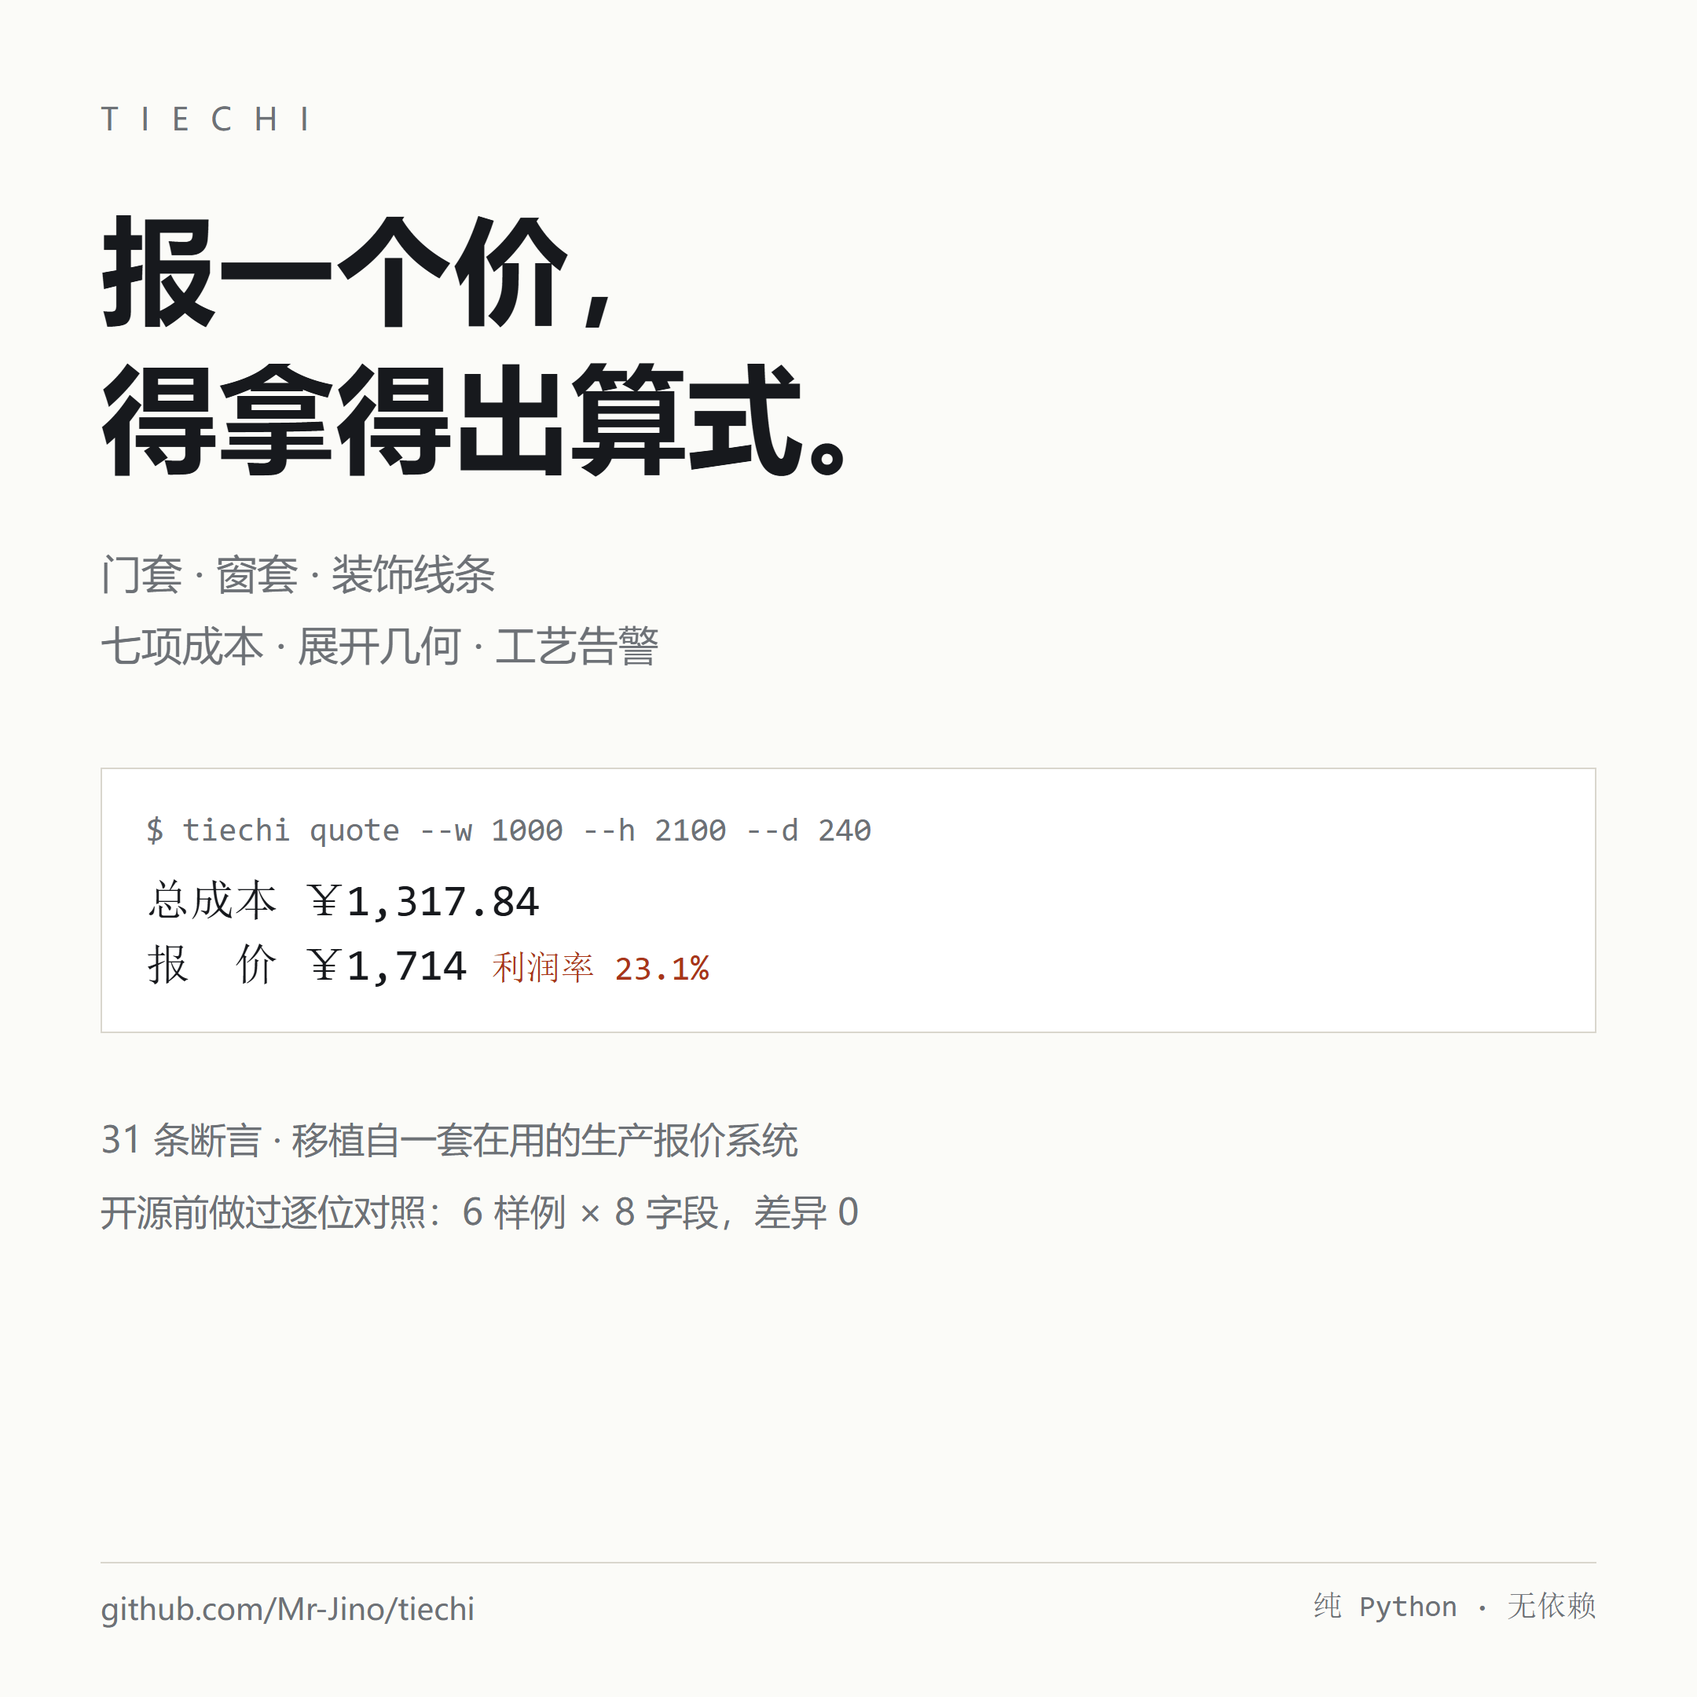
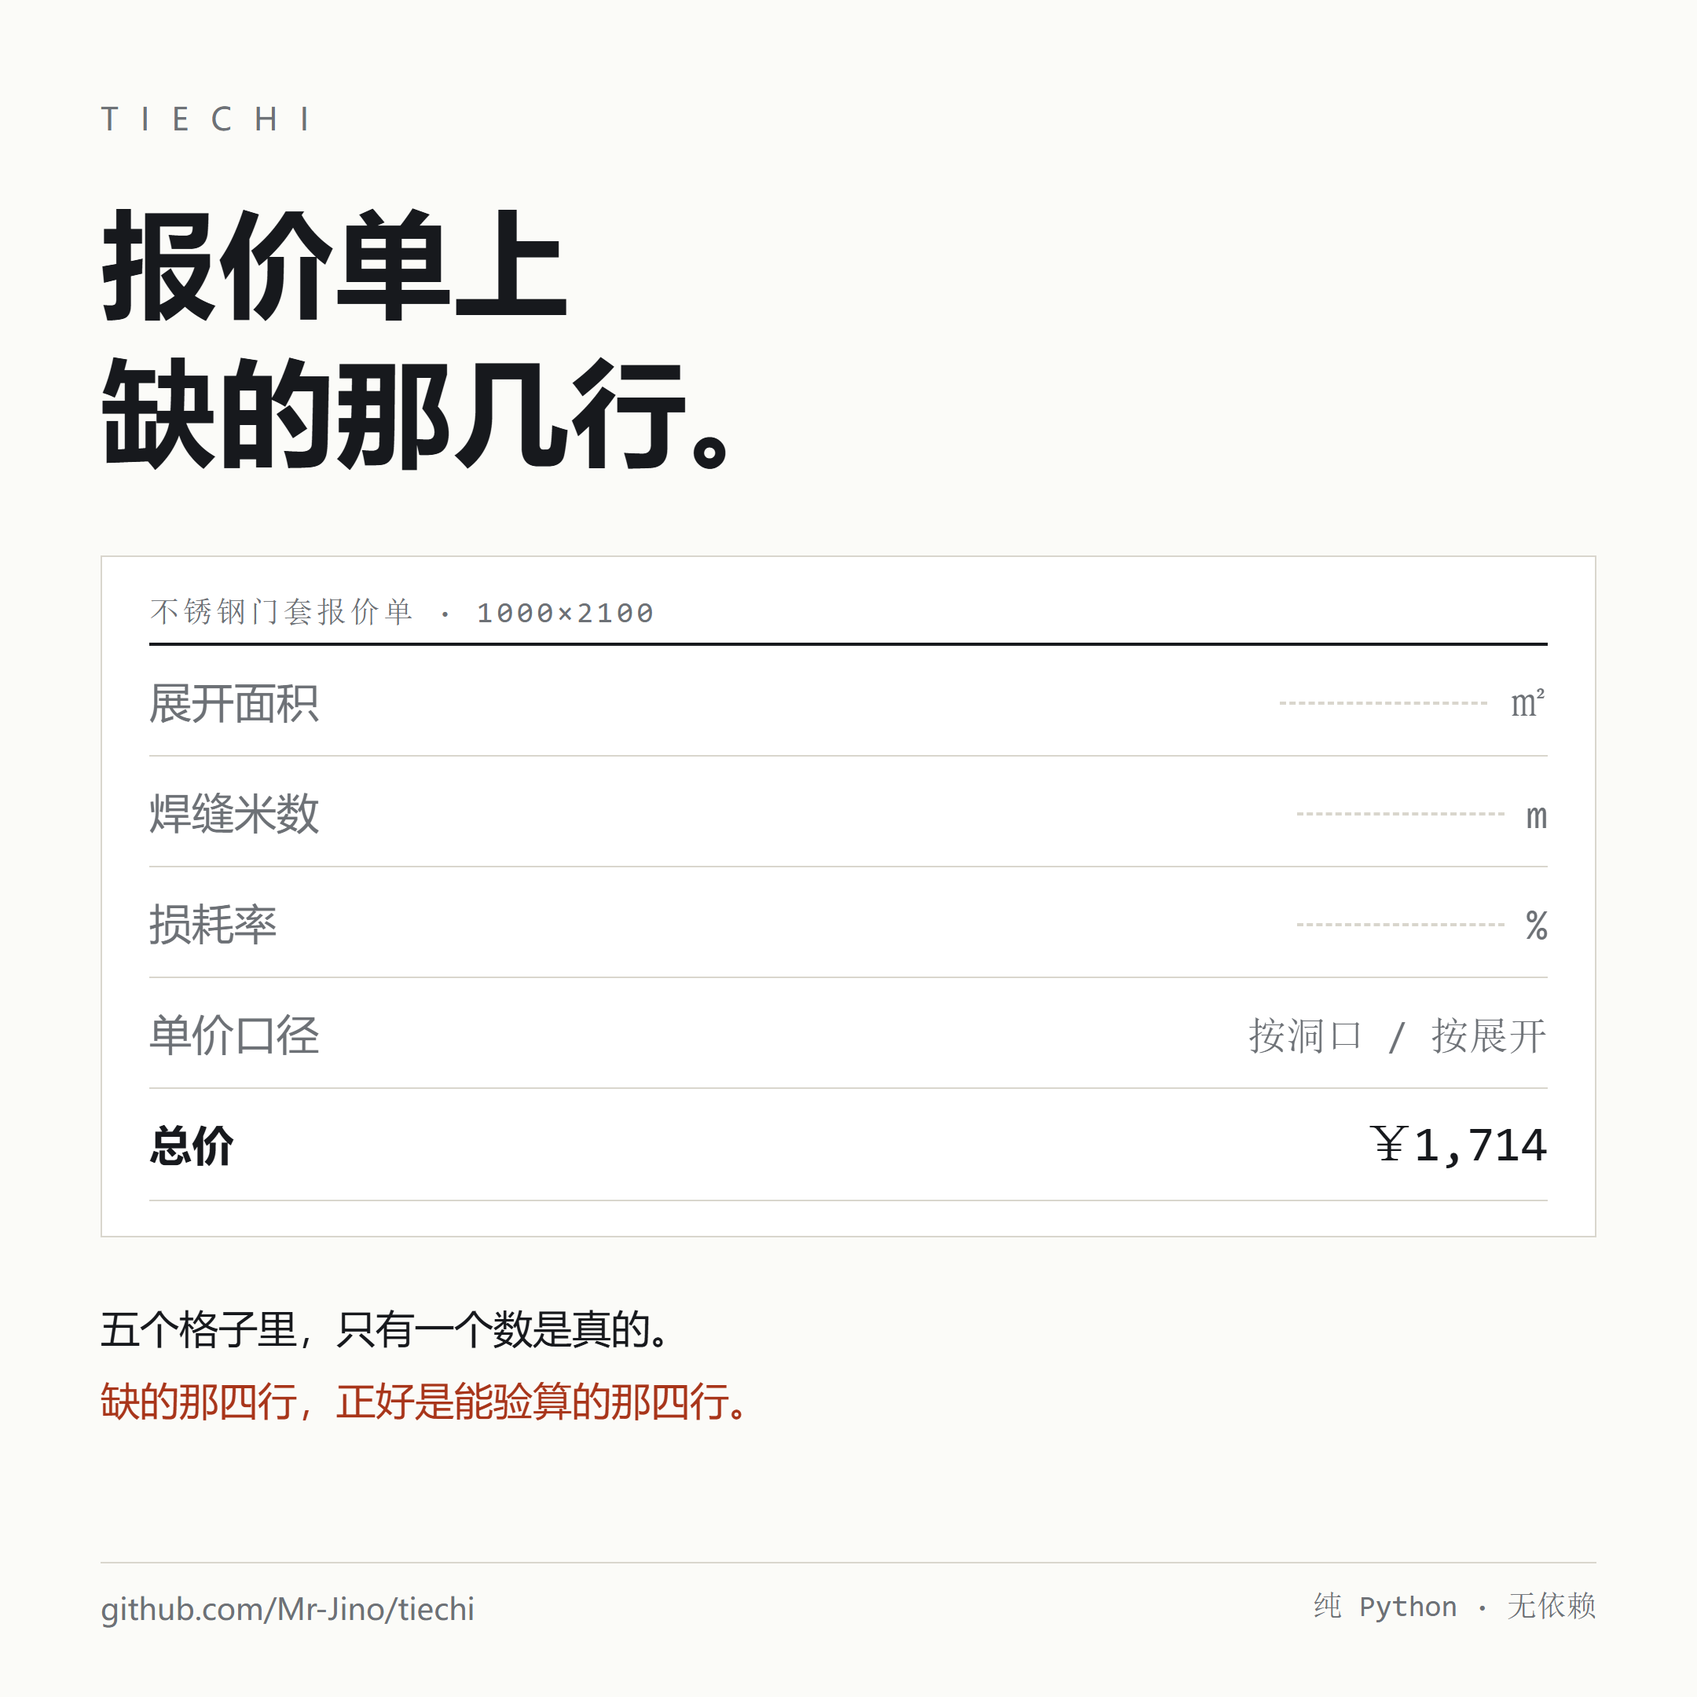
docs: rework moments set around the opacity narrative (4 cards, one storyline)

diff --git a/tools/moments.py b/tools/moments.py
@@ -3,6 +3,13 @@
 moments —— 生成朋友圈四宫格（1080×1080 @2x）
 ==========================================
 版式沿用仓库里的数据表风格：纸白底、细线、等宽数字。数字全部由引擎现算。
+
+叙事线（v3，对齐"模糊才是利润来源"的口径）：
+  1 报价单上缺的那几行      —— 提出问题：总价是确定的，其余全空着
+  2 缺的三个数字值多少      —— 洞口 2.10㎡ / 展开 3.47㎡，同价两种单价差 1.65 倍
+  3 同一句话，差 423 元     —— 工艺口径不明，差价藏在"单包"这句里
+  4 七项成本，逐项带算式    —— 把洞填上
+
     python tools/moments.py
 """
 import os
@@ -44,6 +51,8 @@ h2{font-size:44px;font-weight:600;line-height:1.35}
 .rule{height:1px;background:var(--line);margin:26px 0}
 .foot{position:absolute;left:64px;right:64px;bottom:44px;font-size:19px;color:var(--mute);
   border-top:1px solid var(--line);padding-top:16px;display:flex;justify-content:space-between}
+.blank{display:inline-block;border-bottom:2px dashed var(--line);width:132px;height:2px;
+  vertical-align:middle;margin-bottom:6px}
 """
 
 
@@ -55,128 +64,36 @@ def card(body, left, right="tiechi · MIT"):
 
 # ------------------------------------------------------------------ 1 封面
 def c1():
+    def line(name, val, fixed=False):
+        return f"""
+      <div style="display:flex;justify-content:space-between;align-items:baseline;
+                  padding:17px 0;border-bottom:1px solid var(--line);">
+        <div style="font-size:27px;{'font-weight:600' if fixed else 'color:var(--mute)'}">{name}</div>
+        <div class="mono" style="font-size:{31 if fixed else 25}px;
+             {'color:var(--ink)' if fixed else 'color:var(--mute)'}">{val}</div>
+      </div>"""
+
     body = f"""
   <div class="kicker">T I E C H I</div>
-  <h1 style="margin-top:34px;">报一个价，<br>得拿得出算式。</h1>
-  <div class="sub" style="margin-top:30px;">
-    门套 · 窗套 · 装饰线条<br>七项成本 · 展开几何 · 工艺告警
+  <h1 style="margin-top:30px;">报价单上<br>缺的那几行。</h1>
+  <div style="margin-top:46px;border:1px solid var(--line);background:#fff;padding:8px 30px 22px;">
+    <div class="mono" style="font-size:19px;color:var(--mute);padding:16px 0 8px;
+         border-bottom:2px solid var(--ink);letter-spacing:.12em;">不锈钢门套报价单 · 1000×2100</div>
+    {line("展开面积", '<span class="blank"></span> ㎡')}
+    {line("焊缝米数", '<span class="blank"></span> m')}
+    {line("损耗率", '<span class="blank"></span> %')}
+    {line("单价口径", "按洞口 / 按展开")}
+    {line("总价", f"￥{A['单套报价']:,.0f}", fixed=True)}
   </div>
-  <div style="margin-top:56px;border:1px solid var(--line);padding:26px 28px;background:#fff;">
-    <div class="mono" style="font-size:21px;color:var(--mute);">$ tiechi quote --w 1000 --h 2100 --d 240</div>
-    <div class="mono" style="font-size:28px;margin-top:16px;">总成本 ￥{A['总成本']:,.2f}</div>
-    <div class="mono" style="font-size:28px;margin-top:8px;">
-      报　价 ￥{A['建议报价合计']:,.0f}
-      <span style="color:var(--rust);font-size:22px;">利润率 {A['实际利润率']*100:.1f}%</span>
-    </div>
-  </div>
-  <div style="margin-top:44px;font-size:23px;line-height:2;color:var(--mute);">
-    31 条断言 · 移植自一套在用的生产报价系统<br>
-    开源前做过逐位对照：6 样例 × 8 字段，差异 0
+  <div style="margin-top:34px;font-size:25px;line-height:1.85;">
+    五个格子里，只有一个数是真的。<br>
+    <span style="color:var(--rust);">缺的那四行，正好是能验算的那四行。</span>
   </div>"""
     return card(body, "github.com/Mr-Jino/tiechi", "纯 Python · 无依赖")
 
 
-# ------------------------------------------------------------------ 2 成本
+# ------------------------------------------------------------ 2 缺的三个数字
 def c2():
-    items = sorted([(k, v) for k, v in A["成本明细"].items() if v > 0], key=lambda x: -x[1])
-    total = A["总成本"]
-    rows = "".join(f"""
-      <div style="display:grid;grid-template-columns:150px 1fr 138px;align-items:center;gap:16px;margin-bottom:22px;">
-        <div style="font-size:27px;">{k}</div>
-        <div style="position:relative;height:30px;background:var(--sand);">
-          <div style="position:absolute;inset:0 auto 0 0;width:{v/total*100:.2f}%;
-                      background:{'var(--rust)' if v/total > 0.2 else 'var(--blue)'};"></div>
-        </div>
-        <div class="mono" style="font-size:25px;text-align:right;">{v:,.2f}</div>
-      </div>""" for k, v in items)
-    body = f"""
-  <h2>一件门套，钱花在哪</h2>
-  <div class="sub" style="margin-top:14px;font-size:23px;">
-    1000×2100 · 墙厚 240 · 304/1.0 · 拉丝 · 双包 · 拼焊
-  </div>
-  <div class="rule"></div>
-  {rows}
-  <div style="display:flex;justify-content:space-between;align-items:baseline;
-              border-top:2px solid var(--ink);margin-top:20px;padding-top:18px;">
-    <div style="font-size:30px;">总成本</div>
-    <div class="mono" style="font-size:52px;">￥{total:,.2f}</div>
-  </div>
-  <div style="display:flex;justify-content:space-between;align-items:baseline;margin-top:12px;">
-    <div style="font-size:22px;color:var(--mute);">× (1 + 加成 30%)，取整到元</div>
-    <div class="mono" style="font-size:34px;color:var(--rust);">报价 ￥{A['建议报价合计']:,.0f}</div>
-  </div>"""
-    return card(body, "材料含算料损耗 · 物流泡重取大")
-
-
-# ------------------------------------------------------------------ 3 工艺
-def c3():
-    def block(r, name, note, color, big):
-        g = r["几何"]
-        return f"""
-      <div style="flex:1;border:1px solid var(--line);padding:26px 26px 22px;background:#fff;">
-        <div style="display:flex;align-items:baseline;gap:12px;">
-          <div style="font-size:32px;font-weight:700;color:{color}">{name}</div>
-          <div style="font-size:20px;color:var(--mute)">{note}</div>
-        </div>
-        <div class="mono" style="font-size:{big}px;margin-top:14px;">￥{r['单套报价']:,.0f}</div>
-        <div style="margin-top:14px;font-size:21px;color:var(--mute);line-height:2;" class="mono">
-          展开 {g['单套展开面积㎡']:.3f} ㎡<br>
-          拼角 {r['工艺口径']['拼角处数']} 处 · 接料 {g['拼板接料处数']} 处<br>
-          焊缝 {r['工艺口径']['焊缝米数']:.3f} m
-        </div>
-      </div>"""
-
-    d_cost = ZB["总成本"] - PZ["总成本"]
-    body = f"""
-  <h2>同一洞口，改整包多付 {d_cost:,.0f} 元</h2>
-  <div class="sub" style="margin-top:12px;font-size:23px;">同为单包口径，变量只有工艺</div>
-  <div style="display:flex;gap:22px;margin-top:32px;">
-    {block(PZ, "拼焊", "分件下料 · 拼角焊", "var(--ink)", 44)}
-    {block(ZB, "整包", "一块板折成 П 形", "var(--blue)", 44)}
-  </div>
-  <div style="margin-top:30px;font-size:23px;line-height:1.95;">
-    买的是"没有拼角焊缝"。<br>
-    <span style="color:var(--mute);">代价：整包板长 2×2100+1000+2×240+30 = 5710mm，<br>
-    标准板最长 3000mm，必然接料 —— 所以整包不是"高端就选它"。</span>
-  </div>"""
-    return card(body, "值不值由客户定，但价格得报得出来")
-
-
-# ------------------------------------------------------------------ 4 加成
-def c4():
-    cost, price = A["总成本"], A["建议报价合计"]
-    p30 = cost / 0.7
-    def bar(label, p, expr, real, top):
-        return f"""
-      <div style="margin-top:{top}px;">
-        <div style="display:flex;justify-content:space-between;align-items:baseline;">
-          <div style="font-size:25px;">{label}</div>
-          <div class="mono" style="font-size:28px;">￥{p:,.2f}</div>
-        </div>
-        <div style="display:flex;height:34px;margin-top:12px;">
-          <div style="width:{cost/p*100:.1f}%;background:var(--ink);"></div>
-          <div style="width:{(p-cost)/p*100:.1f}%;background:var(--rust);opacity:.75;"></div>
-        </div>
-        <div class="mono" style="font-size:19px;color:var(--mute);margin-top:9px;">
-          {expr} · 实际利润率 {real:.1f}%
-        </div>
-      </div>"""
-    body = f"""
-  <h2>加成 30% 不是利润 30%</h2>
-  <div class="sub" style="margin-top:12px;font-size:23px;">行业里最常见的报亏原因</div>
-  <div class="mono" style="font-size:76px;margin-top:36px;">0.30 <span style="color:var(--mute);font-size:44px;">÷ 1.30</span>
-    <span style="color:var(--rust)">= 23.1%</span></div>
-  {bar("成本加成 30%", price, "成本 × 1.30", (price-cost)/price*100, 34)}
-  {bar("按利润 30% 反算", p30, "成本 ÷ (1−0.30)", (p30-cost)/p30*100, 26)}
-  <div style="margin-top:32px;font-size:23px;line-height:1.9;">
-    同样的活，两个口径差 <b class="mono" style="color:var(--rust)">￥{p30-price:,.0f}</b> / 套<br>
-    <span style="color:var(--mute);">按 100 万成本量级，差 ￥{(p30-price)/cost*1e6:,.0f}，账上却一直是"赚的"。</span>
-  </div>"""
-    return card(body, "github.com/Mr-Jino/tiechi", "价表请自己回填")
-
-
-# ------------------------------------------------------------ 4b 缺的三个数字
-def c4b():
     g = A["几何"]
     hole = BASE["opening_w"] * BASE["opening_h"] / 1e6      # 洞口面积 ㎡
     dev = g["单套展开面积㎡"]
@@ -184,21 +101,21 @@ def c4b():
 
     def row(no, ask, val, unit, hidden):
         return f"""
-      <div style="border-top:1px solid var(--line);padding:26px 0 22px;">
+      <div style="border-top:1px solid var(--line);padding:24px 0 20px;">
         <div style="display:flex;align-items:baseline;gap:18px;">
-          <div class="mono" style="font-size:22px;color:var(--mute);width:34px;">{no}</div>
-          <div style="font-size:33px;font-weight:600;">{ask}</div>
+          <div class="mono" style="font-size:21px;color:var(--mute);width:34px;">{no}</div>
+          <div style="font-size:32px;font-weight:600;">{ask}</div>
           <div style="flex:1;"></div>
-          <div class="mono" style="font-size:44px;">{val}<span style="font-size:22px;color:var(--mute);"> {unit}</span></div>
+          <div class="mono" style="font-size:42px;">{val}<span style="font-size:22px;color:var(--mute);"> {unit}</span></div>
         </div>
-        <div class="mono" style="font-size:20px;color:var(--mute);margin-top:10px;padding-left:52px;">
+        <div class="mono" style="font-size:19px;color:var(--mute);margin-top:9px;padding-left:52px;">
           {hidden}
         </div>
       </div>"""
 
     rows = (
         row("01", "展开面积", f"{dev:.3f}", "㎡",
-            f"报价只写“按洞口 {hole:.2f} ㎡”—— 摊平后的面积是洞口的 {dev/hole:.2f} 倍")
+            f"报价只写“按洞口 {hole:.2f} ㎡”—— 摊平后是洞口的 {dev/hole:.2f} 倍")
         + row("02", "焊缝米数", f"{A['工艺口径']['焊缝米数']:.2f}", "m",
               f"报价只写“{A['工艺口径']['拼角处数']} 处拼角”—— 处不是长度，估不出焊接费")
         + row("03", "损耗率", f"{g['损耗率']*100:.0f}", "%",
@@ -207,23 +124,91 @@ def c4b():
     )
 
     body = f"""
-  <h2>一张报价单，缺三个数字</h2>
-  <div class="sub" style="margin-top:12px;font-size:23px;">缺了它们，总价是对的也是对的，错的也是对的</div>
+  <h2>缺的这三个数，值多少钱</h2>
+  <div class="sub" style="margin-top:12px;font-size:23px;">同一个价格，两种分母，1.65 倍</div>
   {rows}
-  <div style="border-top:2px solid var(--ink);padding-top:22px;margin-top:6px;">
+  <div style="border-top:2px solid var(--ink);padding-top:22px;margin-top:4px;">
     <div style="font-size:23px;line-height:1.95;">
       于是同一个 <span class="mono">￥{price:,.0f}</span>，可以写成
       <b class="mono" style="color:var(--rust)">￥{price/hole:,.0f}/㎡</b>（按洞口），<br>
-      也可以说成 <b class="mono" style="color:var(--rust)">￥{price/dev:,.0f}/㎡</b>（按展开）
-      —— 差 {dev/hole:.2f} 倍。<br>
-      <span style="color:var(--mute);">两家比单价，分母都不是一个东西，比的是笔误。</span>
+      也可以说成 <b class="mono" style="color:var(--rust)">￥{price/dev:,.0f}/㎡</b>（按展开）。<br>
+      <span style="color:var(--mute);">两家比单价，分母不是一个东西，比的是笔误。</span>
     </div>
   </div>"""
     return card(body, "三个都是硬数，一问就现形", "github.com/Mr-Jino/tiechi")
 
 
-CARDS = [("tiechi-1", c1), ("tiechi-2", c2), ("tiechi-3", c3),
-         ("tiechi-4", c4), ("tiechi-4b", c4b)]
+# ---------------------------------------------------------------- 3 工艺口径
+def c3():
+    def block(r, name, note, color):
+        g = r["几何"]
+        return f"""
+      <div style="flex:1;border:1px solid var(--line);padding:24px 26px 20px;background:#fff;">
+        <div style="display:flex;align-items:baseline;gap:12px;">
+          <div style="font-size:31px;font-weight:700;color:{color}">{name}</div>
+          <div style="font-size:19px;color:var(--mute)">{note}</div>
+        </div>
+        <div class="mono" style="font-size:42px;margin-top:12px;">￥{r['单套报价']:,.0f}</div>
+        <div style="margin-top:12px;font-size:20px;color:var(--mute);line-height:2;" class="mono">
+          展开 {g['单套展开面积㎡']:.3f} ㎡<br>
+          拼角 {r['工艺口径']['拼角处数']} 处 · 接料 {g['拼板接料处数']} 处<br>
+          焊缝 {r['工艺口径']['焊缝米数']:.3f} m
+        </div>
+      </div>"""
+
+    d_cost = ZB["总成本"] - PZ["总成本"]
+    d_price = ZB["单套报价"] - PZ["单套报价"]
+    body = f"""
+  <h2>同一句"单包"，差 {d_price:,.0f} 元</h2>
+  <div class="sub" style="margin-top:12px;font-size:23px;">
+    同一个洞口、同一种材料、同一个包法，变量只有"怎么做"（成本差 {d_cost:,.0f}，加成后 {d_price:,.0f}）
+  </div>
+  <div style="display:flex;gap:22px;margin-top:30px;">
+    {block(PZ, "拼焊", "分件下料 · 拼角焊", "var(--ink)")}
+    {block(ZB, "整包", "一块板折成 П 形", "var(--blue)")}
+  </div>
+  <div style="margin-top:28px;font-size:23px;line-height:1.95;">
+    客户买的是"没有拼角焊缝"。<br>
+    <span style="color:var(--mute);">代价：整包板长 2×2100+1000+2×240+30 = 5710mm，<br>
+    标准板最长 3000mm，必然接料 —— 所以整包不是"高端就选它"。</span><br>
+    这句话不写在报价单上，客户就只能比较两个数字。
+  </div>"""
+    return card(body, "差价不藏在价格里，藏在措辞里")
+
+
+# ---------------------------------------------------------------- 4 七项成本
+def c4():
+    rows_src = [s for s in A["算式"] if s["金额"] is not None and s["名称"] != "建议报价"]
+    rows = ""
+    for s in rows_src:
+        rows += f"""
+      <div style="display:grid;grid-template-columns:132px 1fr 124px;gap:14px;
+                  align-items:baseline;padding:15px 0;border-bottom:1px solid var(--line);">
+        <div style="font-size:24px;">{s['名称'].replace('费','')}</div>
+        <div class="mono" style="font-size:15.5px;color:var(--mute);line-height:1.55;">{s['算式']}</div>
+        <div class="mono" style="font-size:23px;text-align:right;">{s['金额']:,.2f}</div>
+      </div>"""
+
+    body = f"""
+  <h2>七项成本，逐项带算式</h2>
+  <div class="sub" style="margin-top:10px;font-size:22px;">
+    1000×2100 · 墙厚 240 · 304/1.0 · 拉丝 · 双包 · 拼焊
+  </div>
+  <div class="rule" style="margin:20px 0 4px;"></div>
+  {rows}
+  <div style="display:flex;justify-content:space-between;align-items:baseline;
+              border-top:2px solid var(--ink);margin-top:14px;padding-top:14px;">
+    <div style="font-size:27px;">总成本</div>
+    <div class="mono" style="font-size:38px;">￥{A['总成本']:,.2f}</div>
+  </div>
+  <div style="display:flex;justify-content:space-between;align-items:baseline;margin-top:10px;">
+    <div style="font-size:20px;color:var(--mute);">× (1 + 加成 30%)，取整到元</div>
+    <div class="mono" style="font-size:31px;color:var(--rust);">报价 ￥{A['单套报价']:,.0f}</div>
+  </div>"""
+    return card(body, "价表自己回填 · 算式印在结果里")
+
+
+CARDS = [("tiechi-1", c1), ("tiechi-2", c2), ("tiechi-3", c3), ("tiechi-4", c4)]
 
 
 def main():
